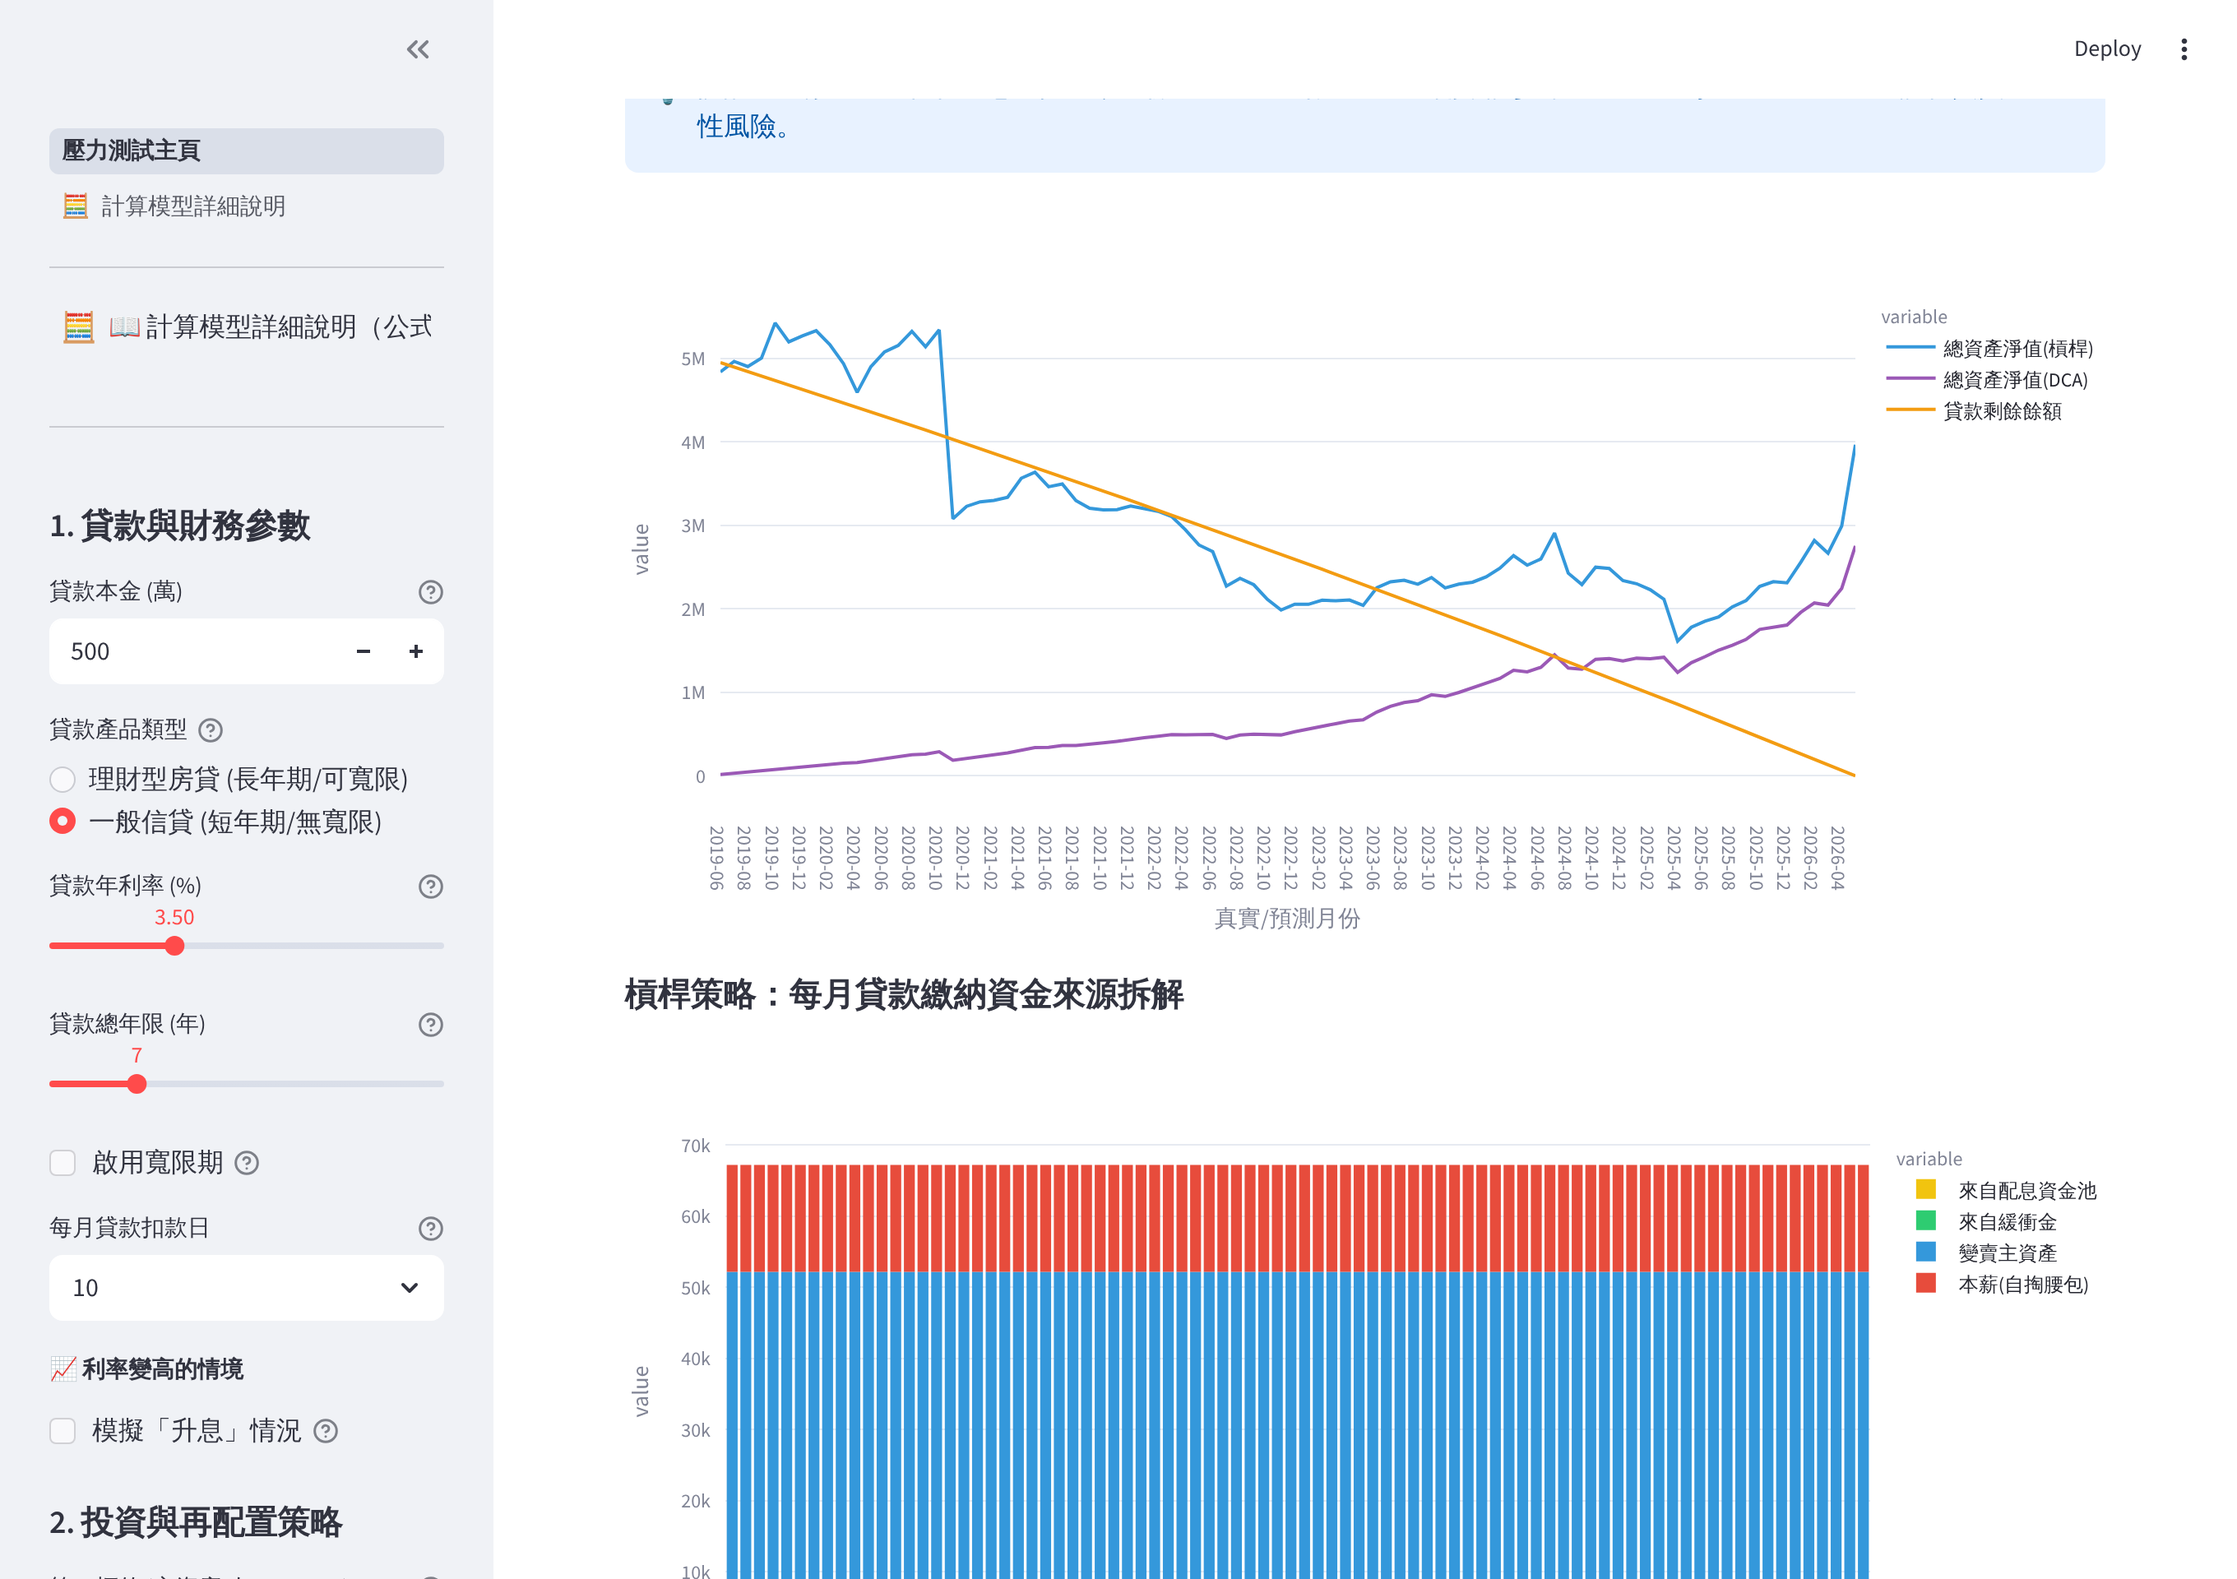
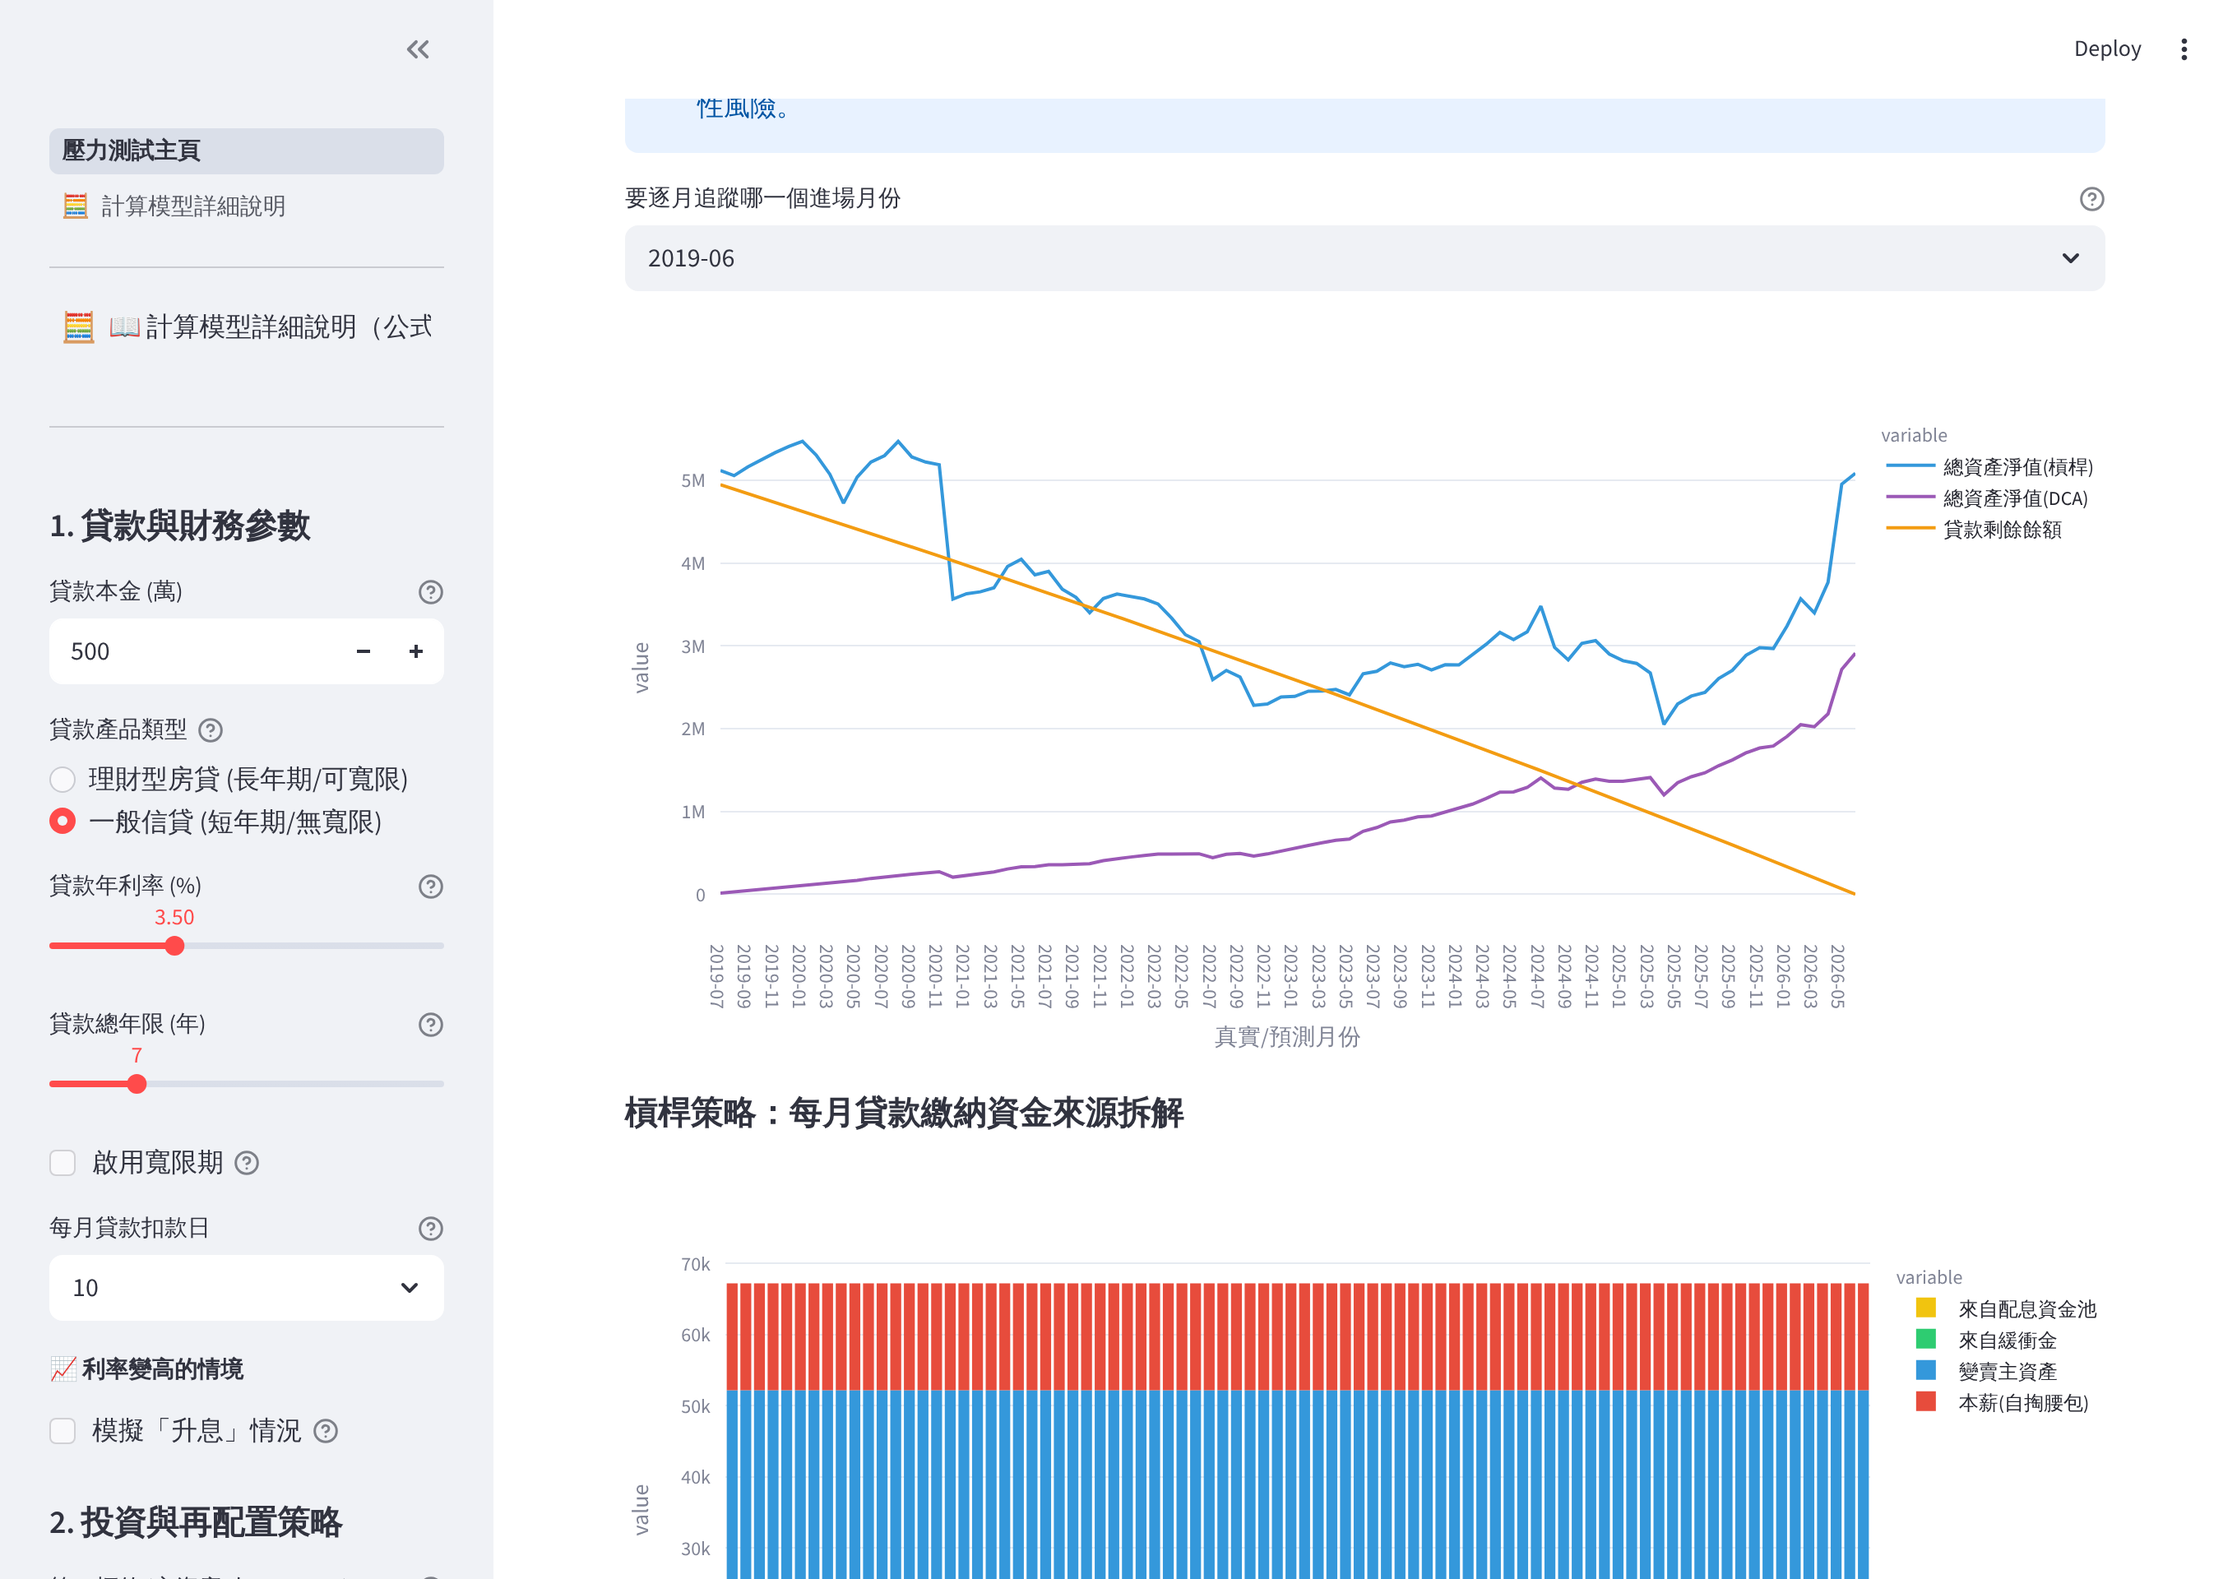
Document data handling and refresh screenshots
Claude-Session: https://claude.ai/code/session_01CintocfKHNCtdKQJB2AfRi

diff --git a/DATA_NOTES.md b/DATA_NOTES.md
@@ -1,18 +1,46 @@
 # 行情資料與回測期間
 
-- 行情及配息由同一次 Yahoo Finance 請求取得；失敗最多嘗試三次，最後一次使用明確起始日期。仍失敗時停止計算，不將抓取失敗解釋成代號不存在，也不將缺少配息欄位視為零配息。
-- 成功取得的月資料快取一小時；失敗不快取。側欄「重新載入行情」可清除行情快取。
-- 各標的仍按指定扣款日取當日或之後首個交易日，月底不足時用當月最後交易日；以月份對齊兩檔資料，並保留各自 Quote_Date 欄位。畫面月份不是實際成交日期。
-- 資料來源起訖日不是 ETF 成立日或上市日。首個價格月份作為月報酬的基期，不列為可回測月份。未提供的早期資料不補值。
-- 缺漏整個月份、共同月份為空或資料不足時停止計算，避免把跨月變動誤當單月報酬。
-- 2026-10-05 實測 Yahoo：0050 價格從 2009-01-02 開始，0056 從 2008-01-02 開始，00878 可成功取得。這些是當次資料覆蓋範圍，不代表上市日期，且來源可能更新。
+## 取得與備援
 
-回歸測試：`python -m unittest test_market_data -v`（全部測試：`python -m unittest -v`）。
+- 行情及配息由同一次 Yahoo Finance 請求取得；失敗最多嘗試三次，最後一次使用明確起始日期（1900-01-01）。不將抓取失敗解釋成代號不存在，也不將缺少配息欄位視為零配息。
+- 每次成功取得的原始資料會存成 `.yf_cache/<代號>.csv`（不進版控）。三次都失敗時改用最近一次的存檔，畫面會標明存檔日期；連存檔都沒有才停止計算。
+- `data/snapshots/` 可以放隨程式一起部署的存檔，作為最後備援（例如剛部署、`.yf_cache` 還是空的時候）。用 `python market_data.py 0050.TW 0056.TW --dir data/snapshots` 產生。這個資料夾預設是空的：是否把行情資料放進公開的 repo，牽涉資料來源的使用條款，請自行決定。
+- 成功取得的月資料在記憶體快取一小時；側欄「重新載入行情」可清除目前幾檔標的的快取。
+- 目前只有 Yahoo Finance 一個即時來源。
 
-## 通用資料驗證（2026-10-05）
+## 月資料的定義
 
-抓取流程未設定 ETF 白名單；保留 Yahoo 的完整代號與交易所後綴。真實連線測試通過：0050.TW、0056.TW、00878.TW、00919.TW、2330.TW、00679B.TWO、SPY、QQQ、AAPL、BRK-B、0700.HK、^GSPC、BTC-USD。不存在的代號會停止計算並提示重試／檢查代號。
+- 各標的按指定扣款日取當日或之後首個交易日的收盤價，月底不足時用當月最後交易日；以月份對齊多檔資料，並保留各自的 Quote_Date。
+- 配息歸屬於「價格已反映除息」的那一期：除息日當天或之後的第一個月價。除息日晚於最新一筆月價的配息，等下個月價出現才計入。
+- 首個價格月份只作為月報酬的基期。缺漏整個月份時停止計算，避免把跨月變動誤當單月報酬。
+- 進場月份 = 以該月價格買進；第一期還款在下一個月。因此最新一個月也可以是進場點（之後全部是未來情境）。
+- 第二標的較晚上市時，它上市前的月份保留，由引擎以第一標的的漲跌推估（見「計算模型詳細說明」第六節）。回測期間的終點是兩檔標的共同的最後一個月。
 
-明確起始日備援調整為 1900-01-01，以免較早上市標的被固定的 1990 年截短。新增空白代號、重複日期、無效價格及配息缺值驗證；零配息是有效資料。共 14 項離線回歸測試。
+## 已知的來源問題與處理（2026-11 實測）
 
-行情可取得不等於所有商品都適用投資模型；指數不可直接交易，跨幣別情況尚未模擬匯率。來源可用性、缺少的早期紀錄與來源數值正確性不能僅靠重試保證。
+Yahoo 對台股 ETF 沒有提供分割紀錄，而且價格與配息各自只還原到不同日期：
+
+| 標的 | 現象 | 處理 |
+|------|------|------|
+| 0050.TW | 2014-01-02 單日 -75.1%（1 拆 4 的接縫）；2013、2014 年配息仍是分割前金額 | 自動還原價格與這兩筆配息 |
+| 00631L.TW | 2015-01-05 單日 -95.4%（1 拆 22 的接縫） | 自動還原 |
+| 00631L.TW、00632R.TW | 2015-08-24 單日 -33.6%／+42.6%，之後相對 0050 永久位移 | 列入 `KNOWN_BAD_DAYS`，當日漲跌視為 0 |
+| 00632R.TW | 2024-12-02 單日 +585.5%（7 併 1 的接縫） | 自動還原 |
+| 00663L.TW | 2025-06-02 單日 -86.3%（1 拆 7 的接縫） | 自動還原 |
+| 0052.TW | 2025-11-17 單日 -85.7%（1 拆 7 的接縫）；2014 年配息仍是分割前金額 | 自動還原價格與該筆配息 |
+| 0050.TW、0056.TW | 2013 年以前沒有任何配息紀錄 | 無法補；畫面提示，該期間配息以 0 計 |
+| 2317.TW、2454.TW | 早期有數筆單日 ±27%～+117% 的跳動 | 來源有分割紀錄，不自動修；畫面提示 |
+
+自動還原的條件：單日價格比例落在 1.9 倍以上、最接近的整數倍誤差在 15% 內、而且來源完全沒有該標的的分割紀錄。有分割紀錄的標的（例如 AAPL 在 2000-09-29 的 -51.9% 是真實暴跌）不會被更動。側欄「自動還原來源沒處理的股票分割」可關閉這項處理。
+
+異常提示的門檻：單日漲跌超過「25% 與該標的日波動 12 倍」兩者較大者；單月配息超過股價 15%；配息紀錄開頭連續 24 個月以上空白。只提示，不更動資料。
+
+這些都是依資料本身的規律推斷，不是官方還原資料；來源可能隨時更新，上表只代表實測當時的狀況。
+
+## 通用性
+
+抓取流程未設定 ETF 白名單，保留 Yahoo 的完整代號與交易所後綴。2026-10-05 真實連線測試通過：0050.TW、0056.TW、00878.TW、00919.TW、2330.TW、00679B.TWO、SPY、QQQ、AAPL、BRK-B、0700.HK、^GSPC、BTC-USD。代號只接受英數字與 `. - ^ =`，最長 20 個字元。
+
+行情可取得不等於所有商品都適用投資模型；指數不可直接交易，跨幣別情況尚未模擬匯率。
+
+測試：`python -m unittest test_market_data -v`（全部測試：`python -m unittest -v`）。

diff --git a/README.en.md b/README.en.md
@@ -32,7 +32,9 @@ The first month in which the payment cannot be covered, the strategy is **ruined
 - **Dividend model** — payouts rise and fall with the market (dividend beta), with a floor during crashes.
 - **Repayment waterfall** — dividend pool, cash buffer, selling the asset and salary are drawn in the order you choose; any of them can be left out.
 - **Fire-sale discount** — forced selling in a crash month costs extra.
-- **Leveraged-ETF volatility decay** — applied to synthetic future months using the standard approximation.
+- **Leveraged-ETF compounding and volatility decay** — months in which the second asset has no real data are modelled from the first with the standard leveraged-fund formula, without projecting any excess return it earned in the sample.
+- **Longer history** — a recently listed asset can borrow the pre-listing record of a similar, older one, so the test covers bear markets such as 2008.
+- **Data checks and repairs** — splits and dividend units the data source left unadjusted are repaired and reported, outliers are flagged, and the last good download is used when the source is unreachable. See [DATA_NOTES.md](DATA_NOTES.md) (in Chinese).
 - **Job-loss scenarios** — a fixed window, or a random model in which unemployment becomes more likely when the market crashes.
 - **DCA comparison** — every path also runs a no-loan portfolio that invests monthly. By default it invests exactly what the leveraged strategy took from salary that month, so both sides put in the same money.
 - **Shareable links** — the address bar always carries the current settings. Copy the URL to hand someone the same scenario; a page refresh keeps your inputs.
@@ -77,7 +79,7 @@ The app opens at `http://localhost:8501`.
 | File | Contents |
 |------|----------|
 | `engine.py` | The simulation engine: loan schedule, repayment waterfall, rolling history and Monte Carlo. NumPy and pandas only, with no Streamlit dependency, so it can be imported on its own. |
-| `market_data.py` | Fetching, validating and month-aligning market data. |
+| `market_data.py` | Fetching with snapshot fallback, split repair and outlier checks, month alignment, pre-listing backfill. |
 | `main_page.py` | The main page: collects inputs, calls the engine, draws the charts. |
 | `ui_state.py` | Input defaults, bounds and URL synchronisation. |
 | `pages/1_Model_Details.py` | Formulas and model assumptions. |
@@ -92,9 +94,10 @@ from market_data import load_history, monthly_data, align_months
 data = align_months(monthly_data(load_history("0056.TW"), 10))
 params = engine.SimParams(principal=5_000_000, annual_rate_pct=3.5, total_months=84,
                           reinvest=False, salary_cap=25_000, seed=42)
-result = engine.run(data, params, anchor_idx=0)
-print(result.mc["Is_Ruined"].mean())   # Monte Carlo ruin rate
-print(result.trace.head())             # month-by-month ledger for the first entry month
+result = engine.run_summary(data, params)
+print(result.mc["Is_Ruined"].mean())      # Monte Carlo ruin rate
+print(result.hist["Ruin_Prob"].mean())    # average ruin rate over every historical entry month
+print(engine.run_trace(data, params, anchor_idx=0).head())   # ledger for the first entry month
 ```
 
 ## Tests

diff --git a/README.md b/README.md
@@ -30,7 +30,9 @@
 - **動態配息模型**：配息隨市場榮枯起伏（Dividend Beta），並設有崩盤保底機制。
 - **還款資金瀑布**：配息池 → 緩衝金 → 變賣資產 → 本薪，依優先序動用直到破產判定。
 - **崩盤流動性折價**：大跌月份被迫賣股時額外計入賤賣損失。
-- **槓桿 ETF 波動耗損**：在假想未來段套用標準近似公式扣除來回震盪的隱藏虧損。
+- **槓桿 ETF 的複利與波動耗損**：第二標的沒有真實資料的月份，以槓桿 ETF 的標準公式由第一標的推估，且不外推歷史上的超額報酬。
+- **較長的歷史**：第一標的上市不久時，可指定一檔性質相近的標的補上市前的歷史，讓回測涵蓋 2008 年這類空頭。
+- **資料檢查與修正**：自動還原行情來源沒處理的股票分割與配息單位、提示異常值，並列出修正了什麼；來源連不上時改用最近一次的存檔。詳見 [DATA_NOTES.md](DATA_NOTES.md)。
 - **DCA 對照組**：每條路徑同時跑定期定額，比較「一次重壓 vs 分批進場」。對照組每月投入的金額，預設等於槓桿策略當月實際從薪水掏出的錢，兩邊自掏腰包的總額相同。
 - **分享連結**：網址列會自動帶著目前的所有設定，複製網址就能把同一組參數傳給別人；重新整理頁面也不會遺失設定。
 - 每個參數旁附白話問號說明，另有獨立頁面詳列公式與模型假設。
@@ -74,7 +76,7 @@ streamlit run app.py
 | 檔案 | 內容 |
 |------|------|
 | `engine.py` | 模擬引擎：貸款排程、還款資金瀑布、歷史滾動與蒙地卡羅。只用 NumPy / pandas，不依賴 Streamlit，可以單獨匯入使用。 |
-| `market_data.py` | 行情抓取、驗證與月份對齊。 |
+| `market_data.py` | 行情抓取、存檔備援、分割還原與異常檢查、月份對齊、上市前歷史回補。 |
 | `main_page.py` | 主頁畫面：收集參數、呼叫引擎、畫圖表。 |
 | `ui_state.py` | 輸入元件的預設值、上下限與網址同步。 |
 | `pages/1_Model_Details.py` | 公式與模型假設說明頁。 |
@@ -89,9 +91,10 @@ from market_data import load_history, monthly_data, align_months
 data = align_months(monthly_data(load_history("0056.TW"), 10))
 params = engine.SimParams(principal=5_000_000, annual_rate_pct=3.5, total_months=84,
                           reinvest=False, salary_cap=25_000, seed=42)
-result = engine.run(data, params, anchor_idx=0)
-print(result.mc["Is_Ruined"].mean())   # 蒙地卡羅破產率
-print(result.trace.head())             # 第一個進場月份的逐月明細
+result = engine.run_summary(data, params)
+print(result.mc["Is_Ruined"].mean())      # 蒙地卡羅破產率
+print(result.hist["Ruin_Prob"].mean())    # 歷史上每個月進場的平均破產率
+print(engine.run_trace(data, params, anchor_idx=0).head())   # 第一個進場月份的逐月明細
 ```
 
 ## 測試
